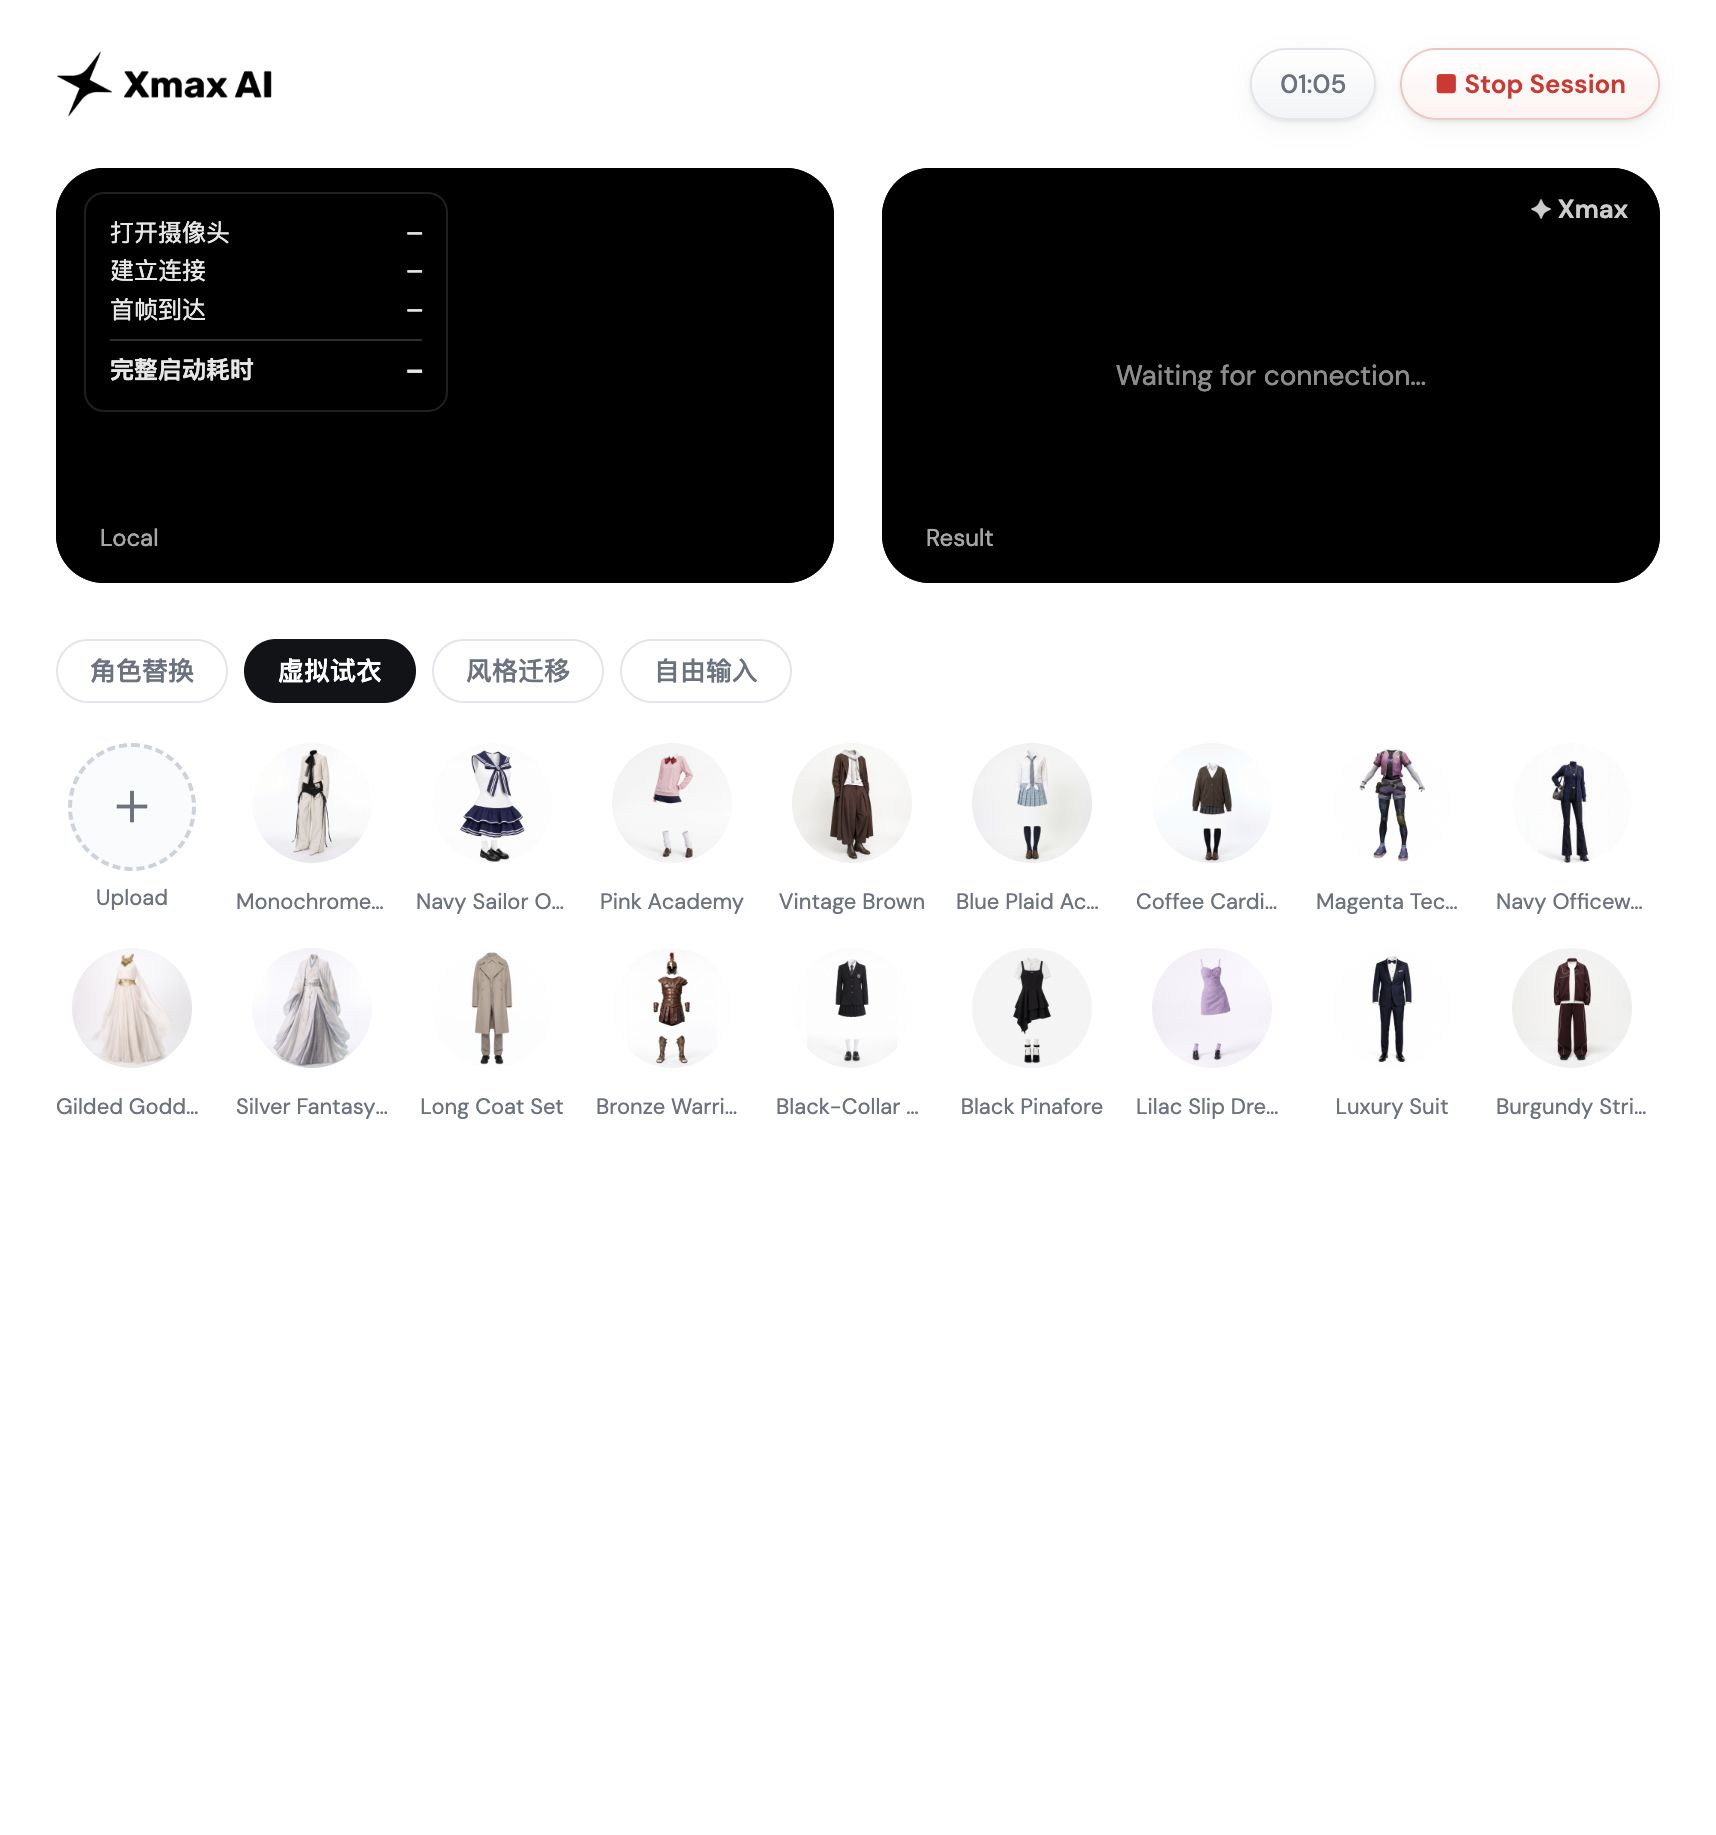
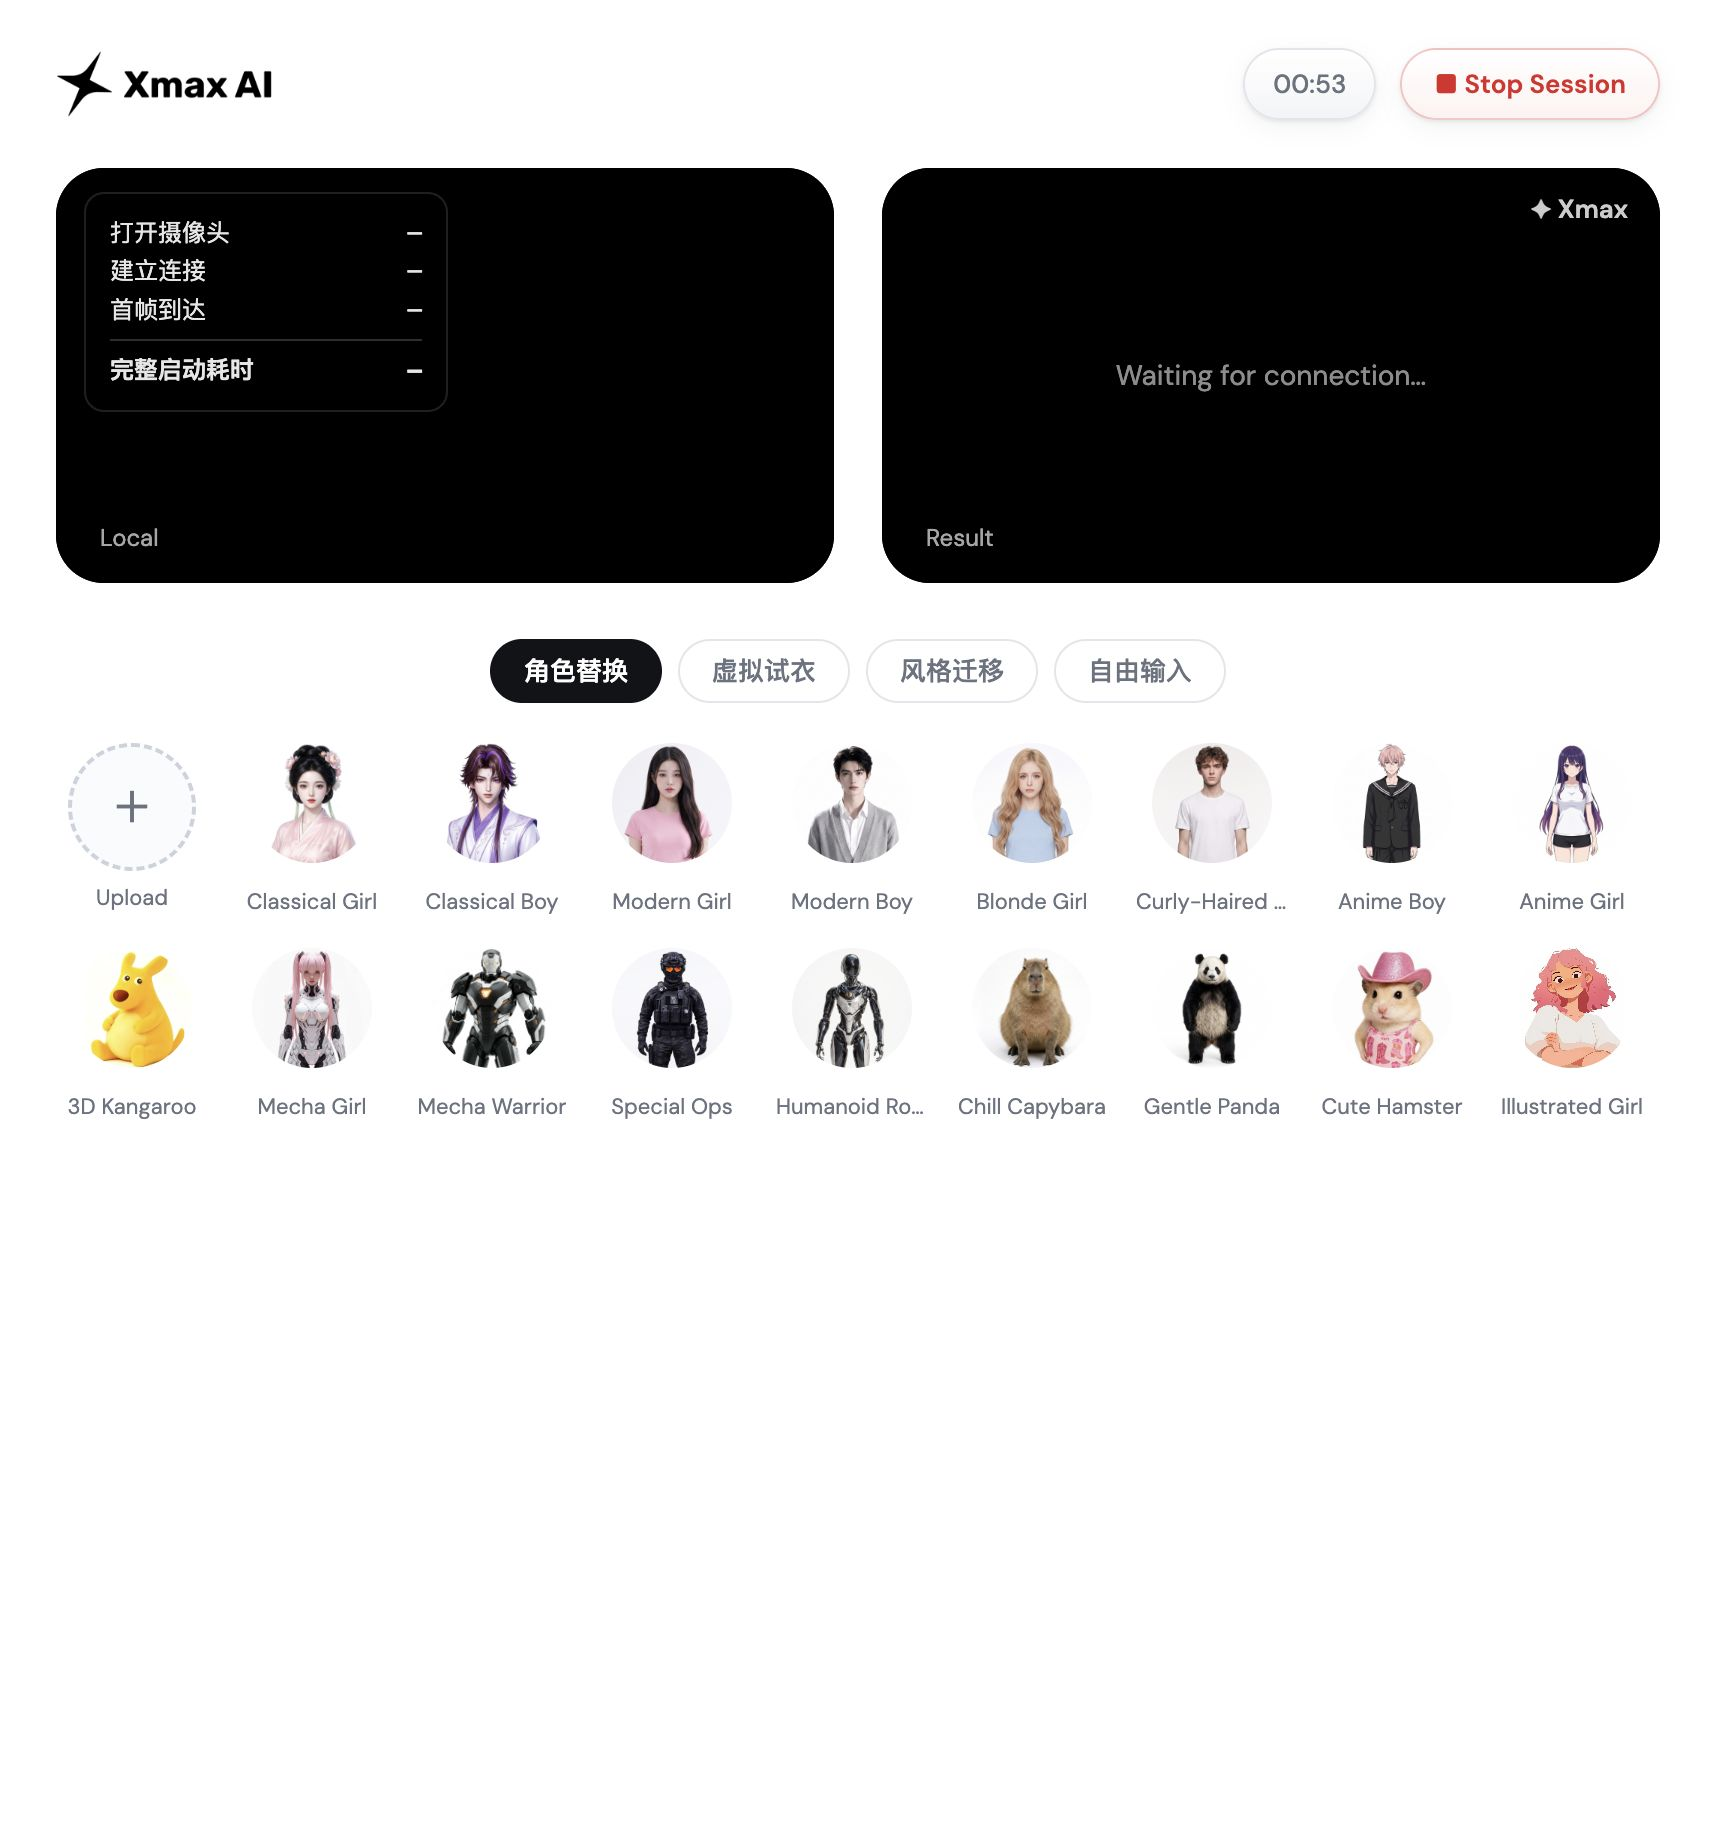
fix: center mode tabs and fill preset rows in reading order

diff --git a/examples/xlab-react/src/App.tsx b/examples/xlab-react/src/App.tsx
@@ -723,28 +723,41 @@ export function App() {
           </div>
         ) : (
           <div className="presetRow" ref={presetRowRef}>
-            <button
-              className="presetItem uploadItem"
-              onClick={() => fileInputRef.current?.click()}
-              disabled={referenceUploading || !apiKey}
-              title={apiKey ? "Upload your own reference image" : "Uploading a reference image requires an API Key"}
-            >
-              <span className="uploadCircle">{referenceUploading ? "…" : "＋"}</span>
-              <span>Upload</span>
-            </button>
-            {activeMode.presets.map((preset) => (
-              <button
-                key={preset.name}
-                className={
-                  selectedPreset === preset.name ? "presetItem active" : "presetItem"
-                }
-                onClick={() => void handleSelectPreset(preset)}
-                disabled={referenceUploading}
-              >
-                <img src={preset.thumbnail} alt={preset.name} loading="lazy" />
-                <span>{preset.name}</span>
-              </button>
-            ))}
+            {(() => {
+              const midpoint = Math.ceil(activeMode.presets.length / 2);
+              const lines = [
+                activeMode.presets.slice(0, midpoint),
+                activeMode.presets.slice(midpoint),
+              ];
+              return lines.map((line, lineIndex) => (
+                <div className="presetLine" key={lineIndex}>
+                  {lineIndex === 0 && (
+                    <button
+                      className="presetItem uploadItem"
+                      onClick={() => fileInputRef.current?.click()}
+                      disabled={referenceUploading || !apiKey}
+                      title={apiKey ? "Upload your own reference image" : "Uploading a reference image requires an API Key"}
+                    >
+                      <span className="uploadCircle">{referenceUploading ? "…" : "＋"}</span>
+                      <span>Upload</span>
+                    </button>
+                  )}
+                  {line.map((preset) => (
+                    <button
+                      key={preset.name}
+                      className={
+                        selectedPreset === preset.name ? "presetItem active" : "presetItem"
+                      }
+                      onClick={() => void handleSelectPreset(preset)}
+                      disabled={referenceUploading}
+                    >
+                      <img src={preset.thumbnail} alt={preset.name} loading="lazy" />
+                      <span>{preset.name}</span>
+                    </button>
+                  ))}
+                </div>
+              ));
+            })()}
           </div>
         )}
       </div>

diff --git a/examples/xlab-react/src/styles.css b/examples/xlab-react/src/styles.css
@@ -501,6 +501,7 @@ button:disabled {
 
 .modeTabs {
   display: flex;
+  justify-content: center;
   gap: 8px;
   margin-bottom: 18px;
 }
@@ -532,10 +533,9 @@ button:disabled {
 }
 
 .presetRow {
-  display: grid;
-  grid-auto-flow: column;
-  grid-template-rows: repeat(2, auto);
-  justify-content: start;
+  display: flex;
+  flex-direction: column;
+  align-items: flex-start;
   gap: 14px;
   overflow-x: auto;
   padding-bottom: 8px;
@@ -552,6 +552,11 @@ button:disabled {
 .presetRow.dragging {
   cursor: grabbing;
   scroll-behavior: auto;
+}
+
+.presetLine {
+  display: flex;
+  gap: 14px;
 }
 
 .presetItem {
